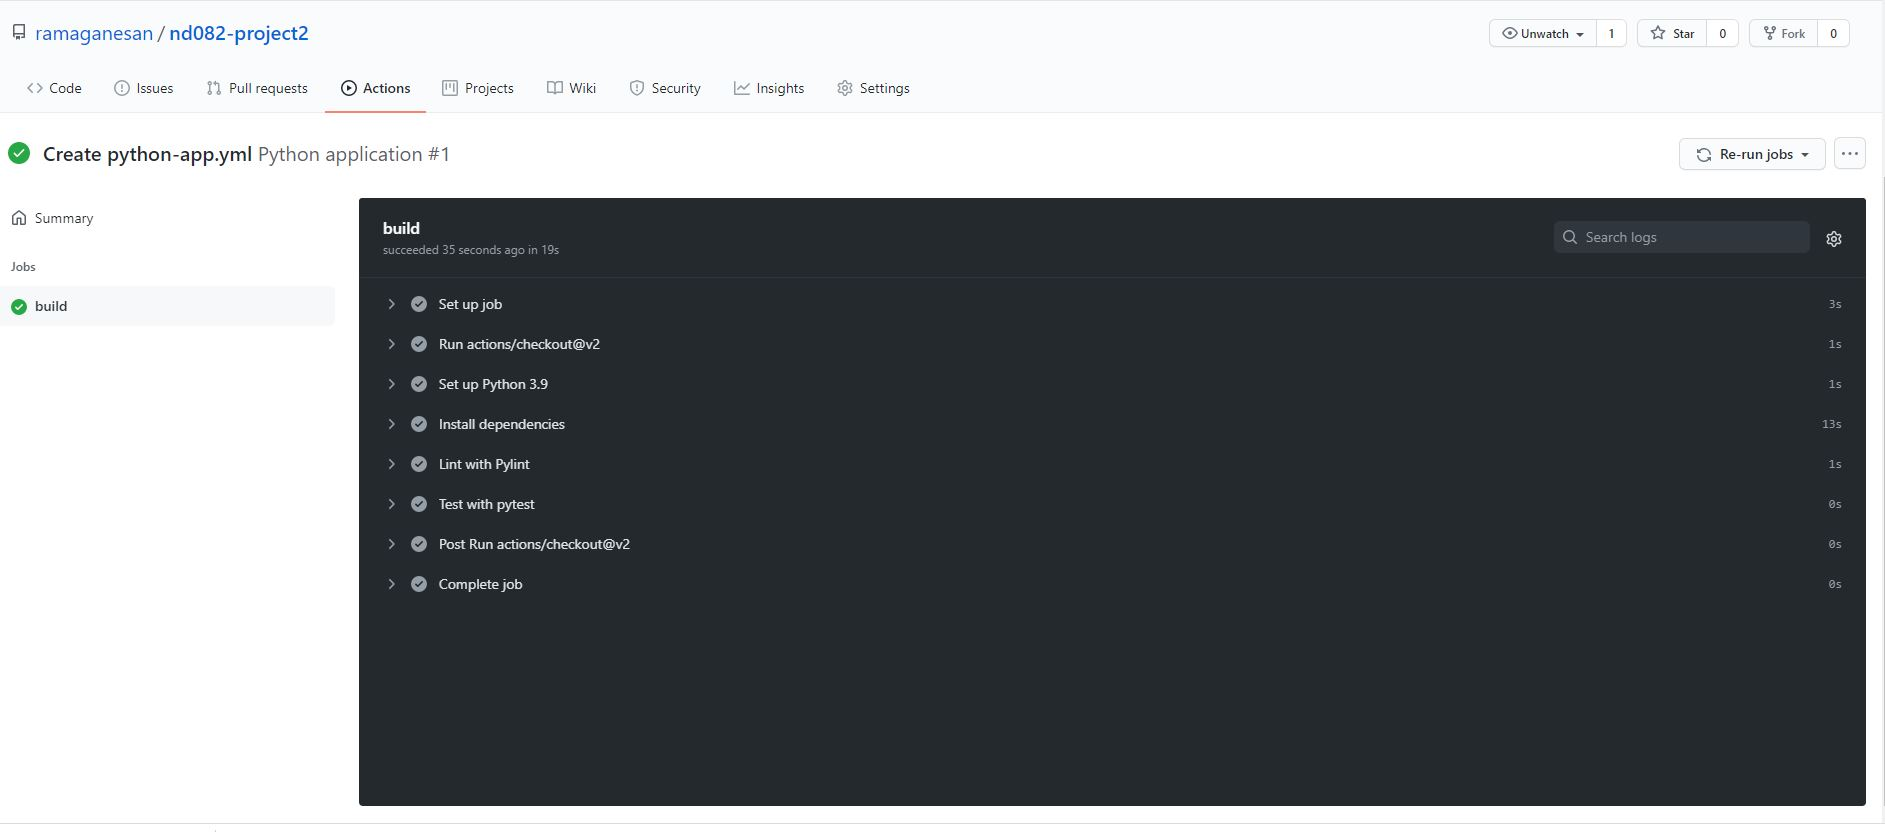
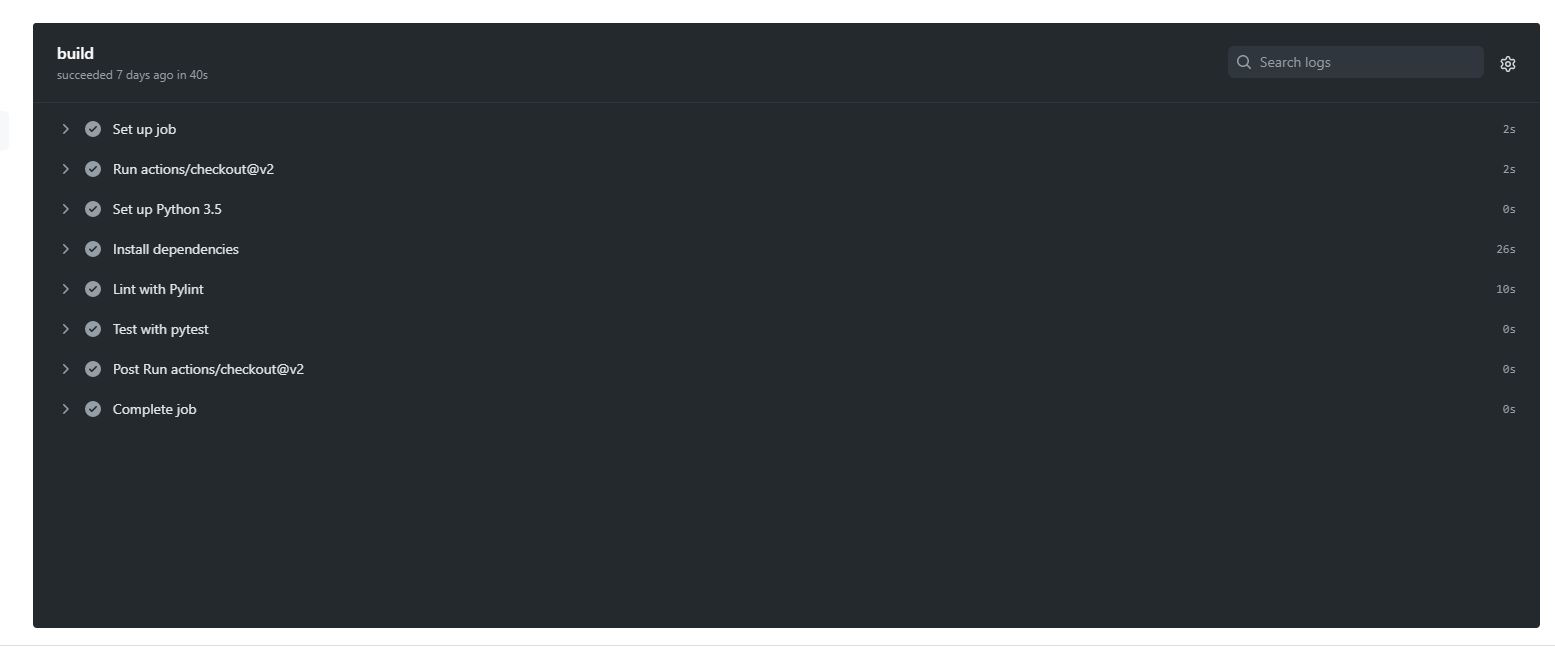
Adding ReadmeDocs and Screen shots

diff --git a/README.md b/README.md
@@ -1,1 +1,295 @@
-"# nd082-project2"
+## Table of Contents
+- **[Overview](#Overview)**
+
+- **[Project Plan](#Project-Plan)**
+
+- **[Architecture Diagram](#Architecture-Diagram)**
+
+- **[Instructions](#Instructions)**
+  
+  - **[Configuring Github](#Configuring-Github)**
+
+  - **[Running Project Locally](#Running-Project-Locally)**
+  
+  - **[Project Azure App Service](#Project-Azure-App-Service)**
+
+    - **[ML Azure App Service](#ML-Azure-App-Service)**
+  
+  - **[Github Actions](#Github-Actions)**
+  
+  - **[Azure DevOps](#Azure-DevOps)**
+  
+    - **[Azure Pipeline Setup](#Azure-Pipeline-Setup)**
+
+    - **[Azure Pipeline App](#Azure-Pipeline-App)**
+
+- **[Enhancements](#Enhancements)**
+
+- **[Demo](#Demo)**
+
+## Overview
+
+In this project we will be implementing a CI/CD process for a sample Python ML application. Continuous Integration will be done using Github actions and
+Continuous Delivery will be implemented using Azure Pipeline. We will also be using Azure Cloud shell in this project.
+
+Main Goals
+
+- Azure Cloud Shell
+- Continuous Integration using Github Actions
+- Continuous Delivery using Azure Pipelines
+
+## Project Plan
+
+- A link to a Trello board for the project
+- [Original Project Plan](project-docs/CI-CD-Project-Planning.xlsx)
+- [Final Project Plan](project-docs/CI-CD-Project-Planning.xlsx)
+
+## Architecture Diagram
+
+[Architectural Diagram](screen-shots/architecture.png)
+
+## Instructions
+
+### Configuring Github
+
+- Log into Azure Cloud Shell
+
+- Create a ssh key
+
+    ```bash
+    ssh-keygen -b 4096 -t rsa
+    ```
+
+- Copy the public key to your Github Account -> settings/keys
+
+- Once your public key is in Github, we can download the source code to Azure Cloud Shell
+
+  - ![Screenshot of SSH Key in Azure Cloud Shell](screen-shots/Git-ssh-key.JPG)
+
+  - ![Screenshot of SSH Key in Github](screen-shots/Git-ssh-key-setting.JPG)
+  
+  - ![Screenshot of Git Clone](screen-shots/GitClone-ssh.JPG)
+
+### Running Project Locally
+
+- Clone the project (In this project we used Azure Cloud Shell)
+- Create a Python Virtual Environment to run your application
+
+  ```bash
+    python3 -m venv ~/.flask-ml-azure
+    source ~/.flask-ml-azure/bin/activate
+    make all
+    export FLASK_APP=app.py
+    flask run
+  ```
+
+- Above step would launch a Python Virtual Environment and would run the application. Launch a new Azure Cloud shell session and test the application by running the make_prediction.sh script
+
+    ```bash
+    ./make_predict.sh
+    {"prediction":[20.35373177134412]}
+    ```
+
+- ```CTRL-C``` to stop the Flask application
+
+- To deactivate the virtual environment run ```deactivate```
+
+  - ![Screenshot of Make all command](screen-shots/Make-All-Result.JPG)
+  
+  - ![Screenshot Flask Run](screen-shots/Application-Local-Run.JPG)
+  
+  - ![Screenshot ML Prediction Test](screen-shots/Application-Local-Run-Test.JPG)
+
+### Azure App Service
+
+Azure App Service is a PASS solution provided by Azure which enables to quickly deploy web apps, mobile back-ends and RESTful API's without managing the infrastructure. Below are some of the advantages
+
+- Support multiple languages(Java, Python, C#) and frameworks(.NET, Spring boot, Flask)
+
+- High Availability and Scalability
+
+- Supports both Windows and Linux OS
+
+- Very good integration with Azure pipelines for Continuous Delivery
+
+For more information and Tutorials please refer
+[Azure App Service](https://docs.microsoft.com/en-us/azure/app-service/)
+
+#### ML Azure App Service
+
+Azure App service offers multiple ways to create a new application. In this section we will be using the Azure CLI to deploy our app. In the another section we will show how to use the Azure Pipelines to deploy our application.
+
+**Set up Azure CLI:**
+
+- Create a new Resource Group for our app
+
+   ```bash
+    az group create --name nd082-project2-rg --location eastus
+    ```
+
+**Deploy Application:**
+
+- Clone the project (In this project we used Azure Cloud Shell)
+
+- Create a Python Virtual Environment to run your application
+
+    ```bash
+        python3 -m venv ~/.flask-ml-azure
+        source ~/.flask-ml-azure/bin/activate
+        make all
+    ```
+
+- Deploy application into the our resource group
+
+    ```bash
+    az webapp up --name rg-nd082-proj2 --resource-group nd082-project2-rg --sku FREE
+    ```
+
+- Our application will be deployed and available at
+  **(https://${app-name}azurewebsites.net)** default port is 443
+
+**Test ML Application:**
+
+- Edit the ```make_predict_azure_app.sh``` with the correct host name of the application
+
+- Run the script to test the app
+
+    ```bash
+        ./make_predict_azure_app.sh
+        {"prediction":[20.35373177134412]}
+    ```
+
+![Screenshot of Test Result](screen-shots/Application-AZ-App-Run-Test.JPG)
+
+**Logs of Azure Webapp:**
+
+Azure App service provides ability to view the application logs. Application logs was be accessed using Azure CLI commands
+
+    ```bash
+        az webapp log tail --name rg-nd082-proj2 --resource-group nd082-project2-rg
+    ```
+
+### Github Actions
+
+Github actions is a feature of Github to do a complete CI/CD workflow. In this project we use Github actions to do our Continuous Integration workflow. We build, lint and test the code using Github actions.
+
+- In your Git Repository, go to Actions Tab -> New Workflow -> Python Application Workflow ***Git hub can analyze your code and bring relevant workflow for your code***
+![Github Actions Setup](screen-shots/Github-Actions-Setup.JPG)
+
+- Continue with the process, and Github Actions workflow will be setup for our code
+
+- We will have to customize the actions for our needs. The default action steps will run the python commands, since we are using *Make* to 
+build, test and lint our code we will modify the Github actions code.
+
+- Edit the .github/workflows/python-app.yml
+
+    ```yml
+    # This workflow will install Python dependencies, run tests and lint with a single version of Python
+    # For more information see: https://help.github.com/actions/language-and-framework-guides/using-python-with-github-actions
+    
+    name: Python application
+    
+    on:
+      push:
+        branches: [ master ]
+      pull_request:
+        branches: [ master ]
+    
+    jobs:
+      build:
+    
+        runs-on: ubuntu-latest
+    
+        steps:
+        - uses: actions/checkout@v2
+        - name: Set up Python 3.5
+          uses: actions/setup-python@v1
+          with:
+            python-version: 3.5
+        - name: Install dependencies
+          run: |
+            make install
+        - name: Lint with Pylint
+          run: |
+            make lint
+        - name: Test with pytest
+          run: |
+            make test
+    ```
+
+- Run the Action Manually. Once successfully launched you will see the result below
+![Github Actions Result](screen-shots/Github-Actions.JPG)
+
+- Once the workflow is setup we will be able to Continuously build our application for every push or pull request on our master branch
+
+### Azure DevOps
+
+Azure DevOps is one shop tool for Agile Project Management. It has all the tools necessary to manage a Agile Project
+
+- Azure Boards for Agile Project Management
+
+- Azure Pipelines for CI/CD
+
+- Azure Repos for repository management
+
+- Azure Test Plan to manage Manual and Automated Testing
+
+- Azure Artifacts to host, share packages
+
+- Extension Marketplace where app builder has provided feature for Azure Devops
+
+#### Azure Pipeline Setup
+
+In this project we use Azure Pipelines for Continuous Delivery of Flask ML App.
+
+- Navigate to [dev.azure.com](https://dev.azure.com) and sign in. You might have to create a Free Account if you don't have a Azure DevOps account
+
+- Create a new Project. In Azure DevOps Project is a collection of different services offered by Azure DevOps, like Azure Boards, Azure Pipelines etc. In our project we will use only Azure Pipelines
+
+- Once the project is created, navigate to Project Settings -> Pipelines -> Service connections -> New Service Connections
+![Azure Project Settings](screen-shots/AzureDevOps-Project-Settings.JPG)
+
+- In the New Service Connections dialog select Azure Resource Manager
+![New ARM](screen-shots/AzureDevOps-ARM.JPG)
+
+- In the Service Connection dialogue box
+  1. Select scope as Subscription
+  
+  2. You might need to log in
+
+  3. Pick the Resource Group of the Azure Web App deployed Before
+  
+  4. Provide a valid Service Connection Name
+  
+  5. Make sure you check the box *Grant Access Permissions to all pipelines*
+  
+  ![New ARM2](screen-shots/AzureDevOps-ARM-2.JPG)
+
+#### Azure Pipeline App
+
+- In the project that was created above, navigate to PipeLines -> New Pipelines
+
+- In the New Pipeline Interface -> Select GitHub as Repo -> Select the Project 
+
+![New Pipeline](screen-shots/AzurePipelines-1.JPG)
+![New Pipeline2](screen-shots/AzurePipelines-2.JPG)
+
+- In Configure, select *Python to Linux Azure Webapp* -> select the deployed app -> Validate and Review
+![New Pipeline3](screen-shots/AzurePipelines-3.JPG)
+![New Pipeline4](screen-shots/AzurePipelines-4.JPG)
+![New Pipeline5](screen-shots/AzurePipelines-5.JPG)
+
+- In the Review, validate the Pipeline YAML and hit the *Save and Run* button, you might be prompted to save the code into GitHub
+![New Pipeline6](screen-shots/AzurePipelines-6.JPG)
+
+- We can also Customize the pipeline to our needs as well
+
+- Now that the pipeline is configured, we can Continuously Deliver our ML Flask App
+
+## Enhancements
+
+<TODO: A short description of how to improve the project in the future>
+
+## Demo
+
+<TODO: Add link Screencast on YouTube>
